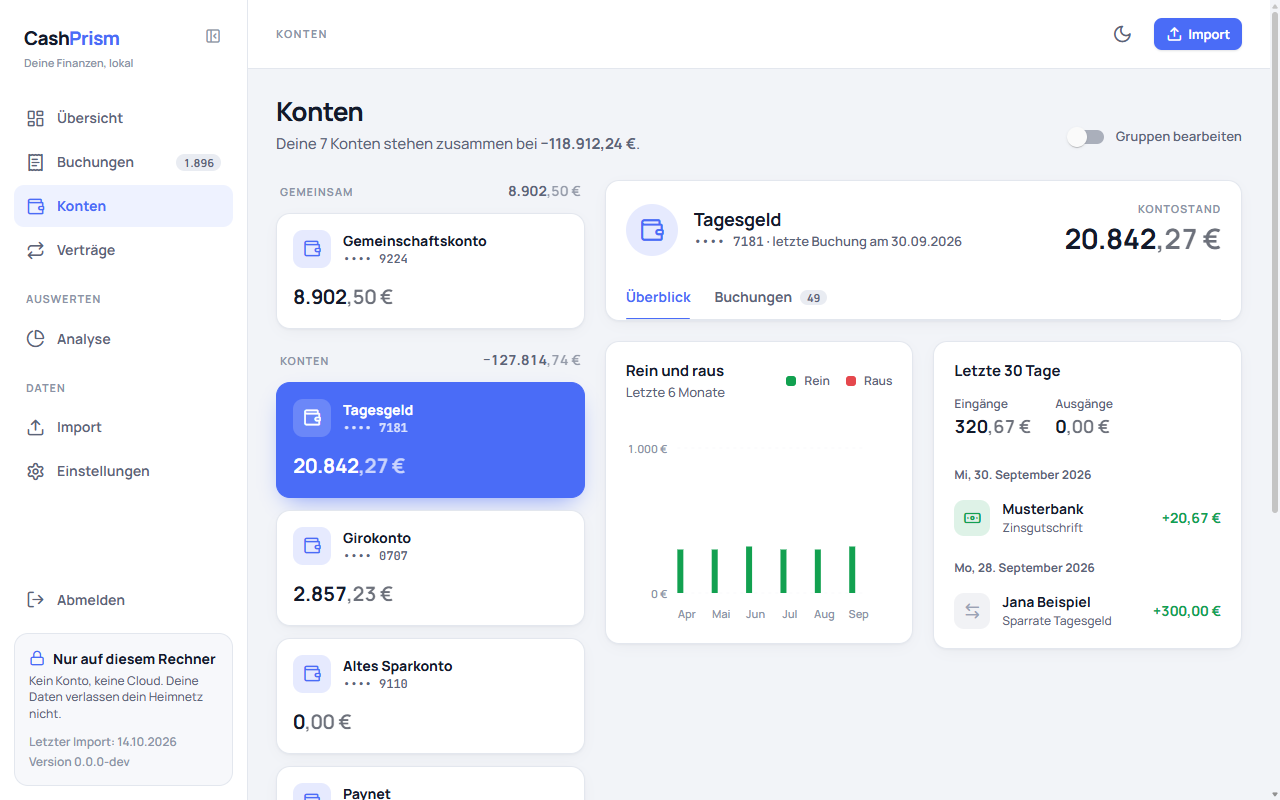
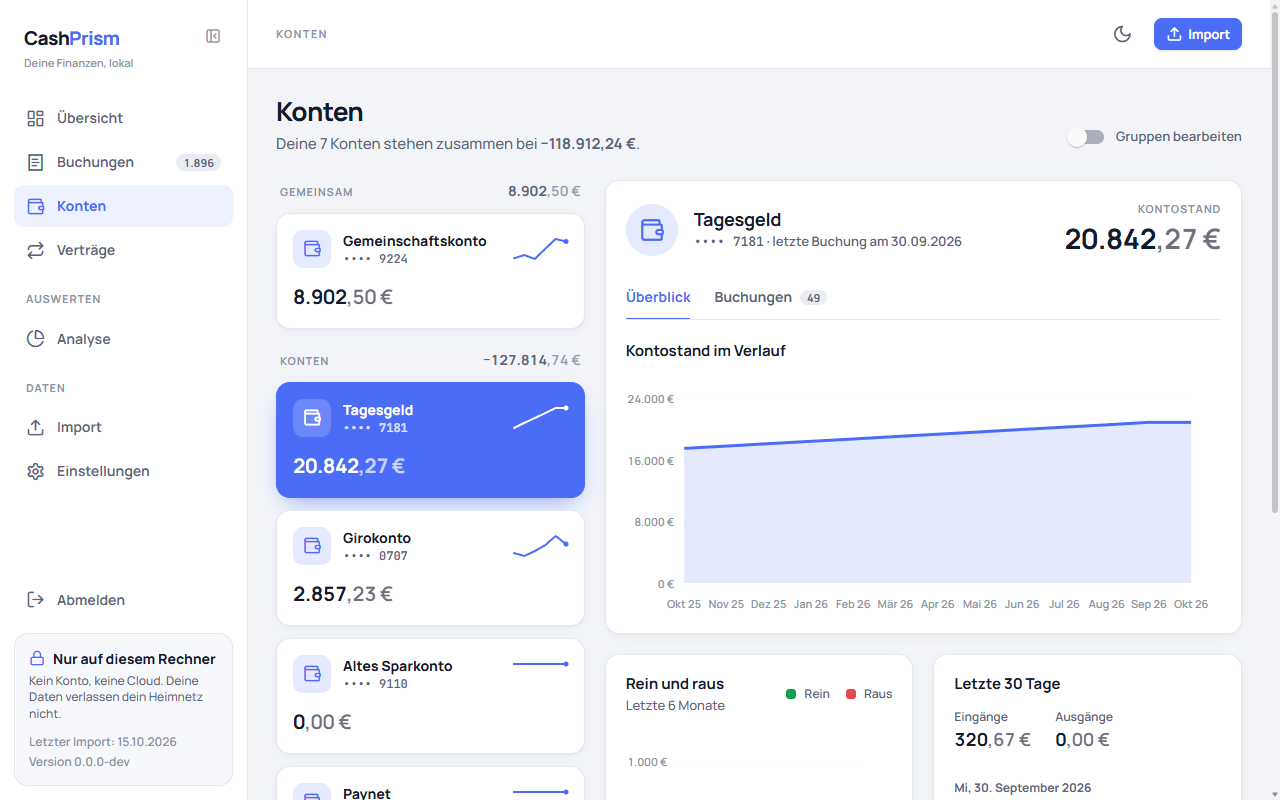
feat: show an account's balance history (#184)
- Add the Kontostand im Verlauf chart to the Überblick tab
- Draw a six-point sparkline on every account card
- Explain instead of drawing where the history does not hold
- Move Sparkline to Components and let it leave out the fill
- Describe the history in benutzung.md and ui.md, retake images

diff --git a/src/CashPrism.Web/wwwroot/css/components.css b/src/CashPrism.Web/wwwroot/css/components.css
@@ -2191,7 +2191,8 @@
 }
 
 .cp-category-chart__chart text,
-.cp-account-flows__chart text {
+.cp-account-flows__chart text,
+.cp-account-balance__chart text {
   font-family: var(--cp-font-sans);
   font-size: 11px;
   font-weight: 600;
@@ -2200,7 +2201,8 @@
 }
 
 .cp-category-chart__chart .mud-charts-gridlines-yaxis path,
-.cp-account-flows__chart .mud-charts-gridlines-yaxis path {
+.cp-account-flows__chart .mud-charts-gridlines-yaxis path,
+.cp-account-balance__chart .mud-charts-gridlines-yaxis path {
   stroke: var(--cp-chart-grid);
   stroke-dasharray: 3 4;
 }
@@ -2666,6 +2668,20 @@ button.cp-tx {
 
 .cp-account-tabs {
   padding: 16px var(--cp-card-padding) 0;
+}
+
+.cp-account-balance {
+  padding: var(--cp-card-padding);
+}
+
+.cp-account-balance .cp-h3 {
+  margin-bottom: 12px;
+}
+
+.cp-account-balance__note {
+  margin: 0;
+  font-size: var(--cp-fs-small);
+  color: var(--cp-text-2);
 }
 
 /* Below the header card, the overview's cards side by side, one above the

diff --git a/src/Tests/CashPrism.Web.Tests.Unit/Pages/AccountsTests.cs b/src/Tests/CashPrism.Web.Tests.Unit/Pages/AccountsTests.cs
@@ -37,6 +37,8 @@ public sealed class AccountsTests
 
         protected FakeAccountGroupStore Groups { get; } = new();
 
+        protected FakeBalanceMovementReader Movements { get; } = new();
+
         /// <summary>The date the stored data is current to; nothing imported when <see langword="null"/>.</summary>
         protected DateOnly? CurrentTo { get; set; } = new(2026, 10, 1);
 
@@ -56,6 +58,7 @@ public sealed class AccountsTests
             Context.Services.AddSingleton(new AccountGroupEditor(Balances, Groups));
             Context.Services.AddSingleton<IBookingReader>(Bookings);
             Context.Services.AddSingleton(new AccountFlowReader(Bookings, new FakeCashFlowReader(CurrentTo)));
+            Context.Services.AddSingleton(new AccountBalanceHistoryReader(Balances, Movements, new FakeCashFlowReader(CurrentTo)));
             Context.Services.AddSingleton<IClock>(new FixedClock(new DateTimeOffset(2026, 10, 2, 12, 0, 0, TimeSpan.Zero)));
             Context.Services.GetRequiredService<NavigationManager>().NavigateTo(uri);
 
@@ -299,6 +302,47 @@ public sealed class AccountsTests
 
             Assert.Equal("Deutsche Bahn", page.Find(".cp-account-bookings .cp-tx__title").TextContent);
             Assert.Empty(page.FindAll(".cp-account-flows"));
+        }
+
+        [Fact]
+        public void Draws_The_Balance_History_Of_The_Selected_Account_In_The_Overview()
+        {
+            Balances.Add("Girokonto", 100000, Giro);
+            Movements.Add(Giro, new DateOnly(2026, 9, 30), -20000, 100000);
+            Movements.Add(Giro, new DateOnly(2026, 8, 10), 120000, 120000);
+
+            var page = Render();
+
+            Assert.NotNull(page.Find(".cp-account-balance .cp-account-balance__chart"));
+        }
+
+        [Fact]
+        public void Explains_Instead_Of_A_Line_When_The_History_Does_Not_Hold()
+        {
+            Balances.Add("Girokonto", 100000, Giro);
+            Movements.Add(Giro, new DateOnly(2026, 9, 30), -20000, 100000);
+            Movements.Add(Giro, new DateOnly(2026, 8, 10), 120000, 99999);
+
+            var page = Render();
+
+            Assert.Empty(page.FindAll(".cp-account-balance__chart"));
+            Assert.StartsWith("Für dieses Konto lässt sich kein Verlauf berechnen", page.Find(".cp-account-balance__note").TextContent);
+        }
+
+        [Fact]
+        public void Draws_A_Sparkline_Only_On_The_Card_Of_An_Account_Whose_History_Holds()
+        {
+            AddTwoAccounts();
+            Movements.Add(Giro, new DateOnly(2026, 9, 30), 60373, 460373);
+            Movements.Add(Giro, new DateOnly(2026, 8, 10), 400000, 400000);
+            Movements.Add(Savings, new DateOnly(2026, 8, 10), 2084227, 1);
+
+            var page = Render();
+
+            var cards = page.FindAll(".cp-account-card").Select(card => (
+                card.QuerySelector(".cp-account-card__name")!.TextContent,
+                card.QuerySelector(".cp-sparkline") is not null));
+            Assert.Equal([("Tagesgeld", false), ("Girokonto", true)], cards);
         }
 
         [Fact]

diff --git a/src/Tests/CashPrism.Web.Tests.Unit/Accounts/AccountBalanceChartTests.cs b/src/Tests/CashPrism.Web.Tests.Unit/Accounts/AccountBalanceChartTests.cs
@@ -1,0 +1,67 @@
+using Bunit;
+using CashPrism.Application.Accounts;
+using CashPrism.Web.Accounts;
+using CashPrism.Web.Localisation;
+using Microsoft.Extensions.DependencyInjection;
+using MudBlazor;
+using MudBlazor.Services;
+
+namespace CashPrism.Web.Tests.Unit.Accounts;
+
+public sealed class AccountBalanceChartTests
+{
+    private const string Giro = "DE98999500006166400707";
+
+    public sealed class Render : IAsyncLifetime
+    {
+        private readonly BunitContext context = new();
+
+        public Render()
+        {
+            context.JSInterop.Mode = JSRuntimeMode.Loose;
+            context.Services.AddLocalization();
+            context.Services.AddMudServices();
+            context.Services.AddScoped<MudLocalizer, ResourceMudLocalizer>();
+        }
+
+        public Task InitializeAsync() => Task.CompletedTask;
+
+        public async Task DisposeAsync() => await context.DisposeAsync();
+
+        private IRenderedComponent<AccountBalanceChart> RenderWith(bool holds, params DatedBalance[] points)
+            => context.Render<AccountBalanceChart>(parameters => parameters
+                .Add(p => p.History, new AccountBalanceHistory(Giro, holds, points)));
+
+        [Fact]
+        public void Draws_The_Balance_At_Each_Point_In_Euros()
+        {
+            var chart = RenderWith(
+                true,
+                new DatedBalance(new DateOnly(2026, 8, 31), 120000),
+                new DatedBalance(new DateOnly(2026, 9, 30), 98050),
+                new DatedBalance(new DateOnly(2026, 10, 1), 100000));
+
+            var drawn = chart.FindComponent<MudChart<double>>().Instance;
+            Assert.Equal(["Aug 26", "Sep 26", "Okt 26"], drawn.ChartLabels);
+            Assert.Equal([1200d, 980.5d, 1000d], drawn.ChartSeries.Single().Data.Values);
+        }
+
+        [Fact]
+        public void Explains_Instead_Of_Drawing_When_The_History_Does_Not_Hold()
+        {
+            var chart = RenderWith(false);
+
+            Assert.Empty(chart.FindComponents<MudChart<double>>());
+            Assert.StartsWith("Für dieses Konto lässt sich kein Verlauf berechnen", chart.Find(".cp-account-balance__note").TextContent);
+        }
+
+        [Fact]
+        public void Explains_Instead_Of_Drawing_A_Single_Point()
+        {
+            var chart = RenderWith(true, new DatedBalance(new DateOnly(2026, 10, 1), 100000));
+
+            Assert.Empty(chart.FindComponents<MudChart<double>>());
+            Assert.Equal("Für einen Verlauf hat dieses Konto noch zu wenige Monate.", chart.Find(".cp-account-balance__note").TextContent);
+        }
+    }
+}

diff --git a/src/Tests/CashPrism.Web.Tests.Unit/Components/SparklineTests.cs b/src/Tests/CashPrism.Web.Tests.Unit/Components/SparklineTests.cs
@@ -1,7 +1,7 @@
 using Bunit;
-using CashPrism.Web.Analysis;
+using CashPrism.Web.Components;
 
-namespace CashPrism.Web.Tests.Unit.Analysis;
+namespace CashPrism.Web.Tests.Unit.Components;
 
 public sealed class SparklineTests
 {
@@ -43,6 +43,17 @@ public sealed class SparklineTests
 
             var dot = sparkline.Find(".cp-sparkline__dot");
             Assert.Equal(("102", "12"), (dot.GetAttribute("cx"), dot.GetAttribute("cy")));
+        }
+
+        [Fact]
+        public void Leaves_The_Fill_Out_When_Asked_To()
+        {
+            var sparkline = context.Render<Sparkline>(parameters => parameters
+                .Add(p => p.Values, [0L, 100L])
+                .Add(p => p.Colour, "var(--cp-primary)")
+                .Add(p => p.Area, false));
+
+            Assert.Empty(sparkline.FindAll(".cp-sparkline__area"));
         }
 
         [Fact]

diff --git a/docs/benutzung.md b/docs/benutzung.md
@@ -561,7 +561,7 @@ Filtern und steht wie sie in der Adresse, etwa `/bookings?q=rewe`.
 
 ## Die Konten
 
-![Die Konten: links die Kontokarten in zwei Gruppen, jede mit ihrer Summe, das ausgewählte Konto blau, rechts sein Kontostand, darunter Rein und raus über sechs Monate und die letzten 30 Tage](images/benutzung/konten.png)
+![Die Konten: links die Kontokarten in zwei Gruppen, jede mit ihrer Summe und einer kleinen Verlaufslinie, das ausgewählte Konto blau, rechts sein Kontostand und sein Verlauf über zwölf Monate, darunter Rein und raus und die letzten 30 Tage](images/benutzung/konten.png)
 
 *Konten* zeigt jedes Konto aus deinem Finanzguru-Export mit seinem Kontostand.
 Darüber steht, wo deine Konten zusammen stehen, etwa *Deine 7 Konten stehen
@@ -573,14 +573,17 @@ also negativ sein.
   wie du weitere anlegst, steht unter [Kontogruppen](#kontogruppen).
 - **Kontokarten:** in jeder Gruppe in der Reihenfolge, die du festgelegt hast.
   Jede Karte zeigt den Namen des Kontos, wie Finanzguru ihn führt, die letzten
-  vier Stellen der IBAN, etwa `•••• 2051`, und den Kontostand. Ein Klick wählt
-  das Konto aus; die ausgewählte Karte ist blau. Die Auswahl steht in der
-  Adresse, ein Lesezeichen öffnet also dasselbe Konto. Ohne Auswahl ist das
-  Konto mit dem höchsten Guthaben ausgewählt.
+  vier Stellen der IBAN, etwa `•••• 2051`, den Kontostand und eine kleine
+  Linie, wie er sich über die letzten fünf Monatsenden bis zum neuesten Export
+  entwickelt hat. Ein Klick wählt das Konto aus; die ausgewählte Karte ist
+  blau. Die Auswahl steht in der Adresse, ein Lesezeichen öffnet also dasselbe
+  Konto. Ohne Auswahl ist das Konto mit dem höchsten Guthaben ausgewählt.
 - **Das ausgewählte Konto:** rechts, mit Kontostand und dem Tag der letzten
   Buchung. Darunter wechselst du zwischen zwei Ansichten, *Überblick* und
   *Buchungen*. Beim Öffnen der Seite ist *Überblick* gewählt.
-- ***Überblick*:** zwei Karten unter dem Konto.
+- ***Überblick*:** *Kontostand im Verlauf* zeigt den Kontostand am Ende der
+  letzten zwölf Monate und am Tag des neuesten Exports; zeigst du auf einen
+  Punkt, steht der Stand dabei. Darunter zwei Karten:
   - *Rein und raus* zeigt für die letzten sechs abgeschlossenen Monate, was
     auf das Konto kam und was es verließ, als Balken nebeneinander.
   - *Letzte 30 Tage* zählt die *Eingänge* und *Ausgänge* der 30 Tage bis zum
@@ -599,6 +602,17 @@ also negativ sein.
 **Woher der Kontostand kommt:** aus dem Export, so wie Finanzguru ihn am Tag
 des Exports zeigt. CashPrism rechnet nichts nach und nimmt den Stand des
 neuesten Exports, auch wenn du danach einen älteren importierst.
+
+**Woher der Verlauf kommt:** CashPrism rechnet vom Kontostand des neuesten
+Exports rückwärts und zieht jede spätere Buchung wieder ab, Umbuchungen
+eingeschlossen. Das Ergebnis vergleicht es an jedem Monatsende mit dem
+Kontostand, den der Export dort selbst nennt. Passt es auch nur an einem
+Monatsende nicht, zeigt das Konto keinen Verlauf und keine Linie auf der
+Karte, sondern einen Satz, warum — ein falscher Verlauf wäre schlimmer als
+keiner. Vor der ersten Buchung eines Kontos weiß der Export nicht, was darauf
+lag; dort beginnt die Linie erst später. Bucht Finanzguru eine Buchung
+nachträglich mit einem früheren Datum, ändert sich mit dem nächsten Import auch
+der Verlauf davor.
 
 **Was fehlt:**
 

diff --git a/docs/ui.md b/docs/ui.md
@@ -422,8 +422,19 @@ negative.
   delete button says why in a tooltip on its wrapper, because a disabled button
   receives no hover. No drag and drop: arrows work with a keyboard and on a
   phone alike.
-- **No balance history yet.** The design's *Kontostand im Verlauf* in the
-  *Überblick* tab and the sparkline on each card need a measurement first.
+- **The balance history** is walked back from the balance taken at import by
+  `BalanceHistoryRule`, read through `AccountBalanceHistoryReader`: the end of
+  each of the twelve complete months before the running one, and the day of
+  the latest export. *Überblick* draws all of them inside the detail card as
+  *Kontostand im Verlauf* (`Accounts/AccountBalanceChart.razor`, a filled
+  MudChart line); each account card draws the last six as a 56×24 sparkline
+  without fill (`Components/Sparkline.razor`, shared with the analysis), in
+  the card's text colour when it is selected. A month before the account's
+  first booking has no point, so a young account's line starts later. Where
+  the walk disagrees with the export at one month end, the account has no
+  line at all: the card leaves the sparkline out and the chart's place says
+  why. The measurement is in
+  [`finanzguru-export.md`](finanzguru-export.md#a-balance-history-walked-back-from-the-import).
 
 The balances are what the latest export reports, taken at import — see
 [`finanzguru-export.md`](finanzguru-export.md#where-kontostand-does-give-the-balance).

diff --git a/CHANGELOG.md b/CHANGELOG.md
@@ -11,6 +11,12 @@ releases and the minor version is bumped for every notable change.
 
 ### Added
 
+- The accounts page shows how each balance developed: *Kontostand im Verlauf*
+  in the *Überblick* tab, over the last twelve month ends and the day of the
+  latest export, and a small line on every account card. CashPrism walks the
+  balance back from the latest export, booking by booking, and checks it
+  against the balance the export reports at each month end; an account where
+  the two disagree shows no line and says why instead of drawing a wrong one.
 - The accounts page has the tabs *Überblick* and *Buchungen* for the selected
   account. *Überblick* is open by default: *Rein und raus* shows what came
   into and went out of the account in each of the last six complete months,
